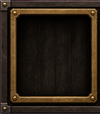
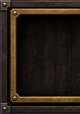
대화창 판을 320px로 늘리고 요소 전부 중앙 정렬
양피지 안쪽에서 세로띠를 잘라 반복해 판을 300 -> 320px로 늘렸다. 폭 320은
마크가 GUI 배율과 무관하게 보정하는 최소 가상 화면이라 여기가 상한이다.
양피지가 175 -> 195로 넓어져 대사 줄바꿈 폭을 150 -> 175로 올릴 수 있었다.

판이 넓어져 80px씩 4조각으로 다시 잘랐다. 이미지 폭이 크면 마크 폰트 아틀라스에
못 들어가 에러 없이 사라진다(실측: 144는 되고 217/300은 안 됨).

판 안 좌표를 다시 재서 초상화(액자 홈 중심 -107)·명패(초상화와 같은 -107)·
이름(명패 중앙)을 전부 맞췄다. 명패는 110 그대로면 화면 왼쪽으로 2px 나가서
0.85배로 줄였다. 전부 preview.py 로 확인하고 올렸다.

diff --git a/ops/prod/betterhud/preview.py b/ops/prod/betterhud/preview.py
@@ -38,7 +38,7 @@ FONT_TTF = os.path.expanduser("~/development/barkan-resourcepack/assets/barkan/f
 FONT_PX = 13
 
 # 패널 그림에서 실측한 영역. 패널 왼쪽 위를 (0,0)으로 본 좌표.
-PARCHMENT = (112, 8, 287, 90)    # 대사가 들어가야 하는 자리
+PARCHMENT = (112, 8, 307, 90)    # 대사가 들어가야 하는 자리 (320판 기준)
 PORTRAIT_SLOT = (16, 14, 91, 95)  # 초상화가 들어가야 하는 액자 홈
 
 SAMPLE_TEXT = "바르칸의 물은 정직하단다 — 던진 만큼 돌려주지."
